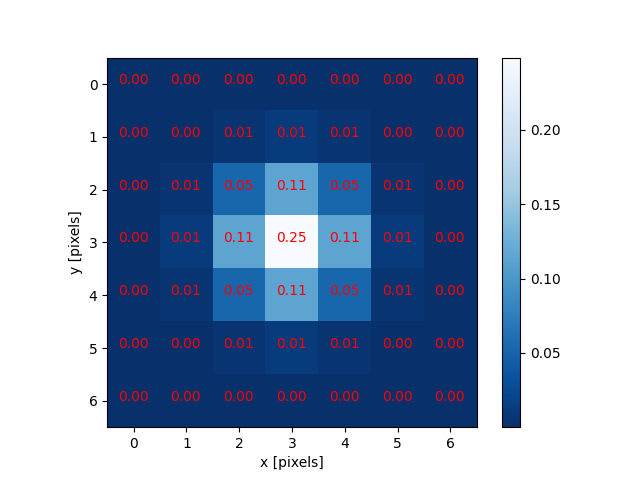
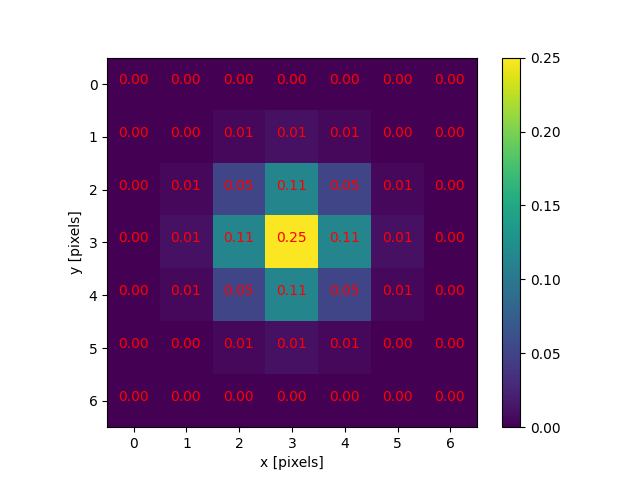
viridis map on kernel image

diff --git a/code/06-blurring/draw_kernel.py b/code/06-blurring/draw_kernel.py
@@ -23,7 +23,7 @@ y_long = np.reshape(y, z.shape[0]*z.shape[1])
 z_long = np.reshape(z, z.shape[0]*z.shape[1])
 
 # Plot the kernel as an image
-plt.imshow(z, interpolation='none', origin='upper', cmap='Blues_r')
+plt.imshow(z, interpolation='none', origin='upper', vmin=0, vmax=0.25)
 
 # Label each pixel with it's z value (the kernel evaluated at that point)
 for i, label in enumerate(z_long):
